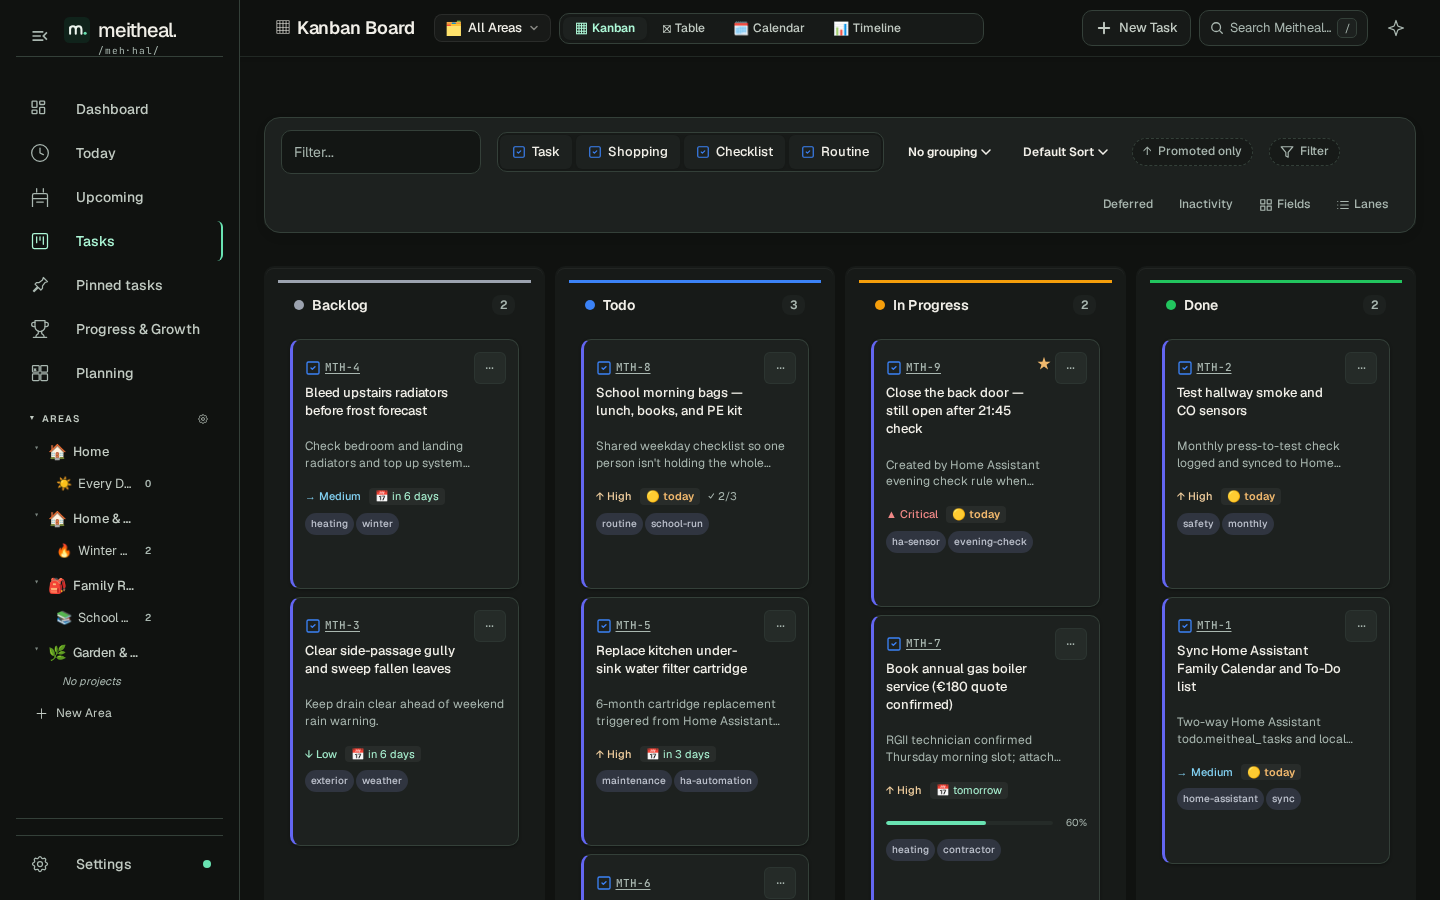
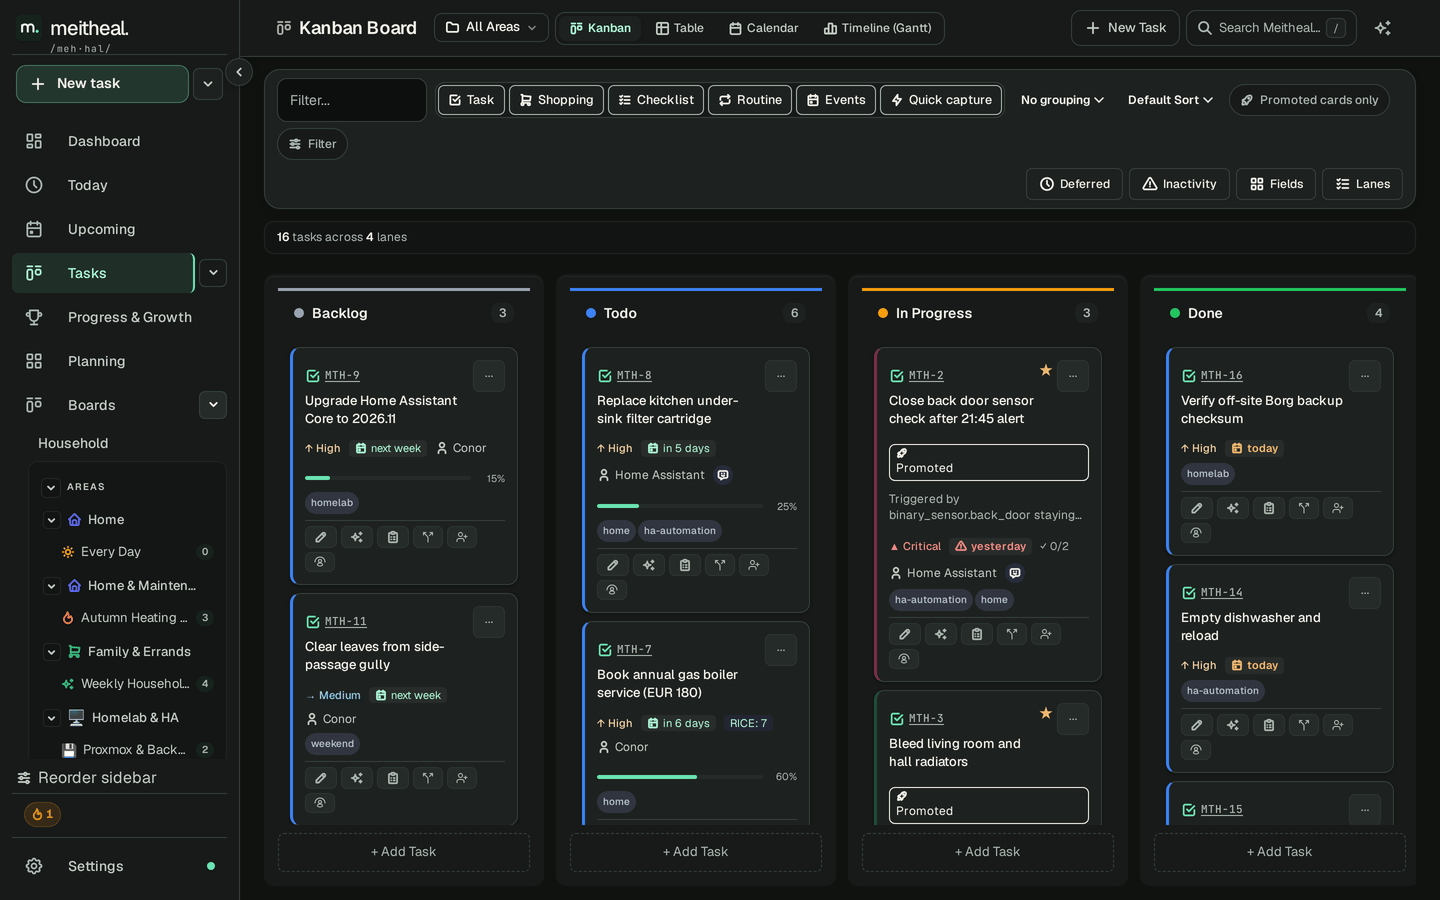
Refresh Meitheal documentation and README demos (#113)
* chore(repo): exclude working notes, non-ADR decision logs, and agent runs

* docs(decisions): add ADR template and clean legacy runner references

* docs: refresh README screenshots, capture runbook, and workflow guides

* chore(scripts): add deterministic marketing media capture script and unit tests

* chore: keep media capture tooling out of the repository

* docs: add feature GIFs and extra screenshots to the README

diff --git a/README.md b/README.md
@@ -34,20 +34,38 @@ Meitheal sits naturally between **Home Assistant automations** and **everyday ho
 | Multi-step seasonal prep | **Winter Boiler and Heating Prep** project | Tracks contractor quotes, radiator bleeding, and pressure checks in **Kanban** or **Table** |
 
 - **Start in Today**: Review due work, recurring routines, carried-forward items, and evening wrap-up in one focused view.
-- **Plan at the right altitude**: Switch between **Kanban**, **Table**, **Calendar**, and **Timeline**, or search everything instantly via [Search Hub](docs/kcs/search-hub-guide.md) (`/` or `Ctrl/Cmd + K`).
+- **Plan at the right altitude**: Organize work across dedicated **Boards**, switch between **Kanban**, **Table**, **Calendar**, and **Timeline**, open distraction-free **Focus Mode** with RICE scoring and **Auto-score with Assist**, or search everything via [Search Hub](docs/kcs/search-hub-guide.md) (`/` or `Ctrl/Cmd + K`).
+- **Look & Feel made for Home Assistant**: Choose **Emerald Isle**, **Knight Rider**, **Light**, or enable **Match Home Assistant theme** so surfaces and accents follow your Home Assistant dashboard.
 - **Stay inside Home Assistant**: Two-way calendar and `todo.meitheal_tasks` sync, Home Assistant sensors and services, Assist voice intents, webhooks, and scoped LLM/MCP agent tokens.
 - **Use on any screen — even offline**: Open through Home Assistant Ingress, launch via Companion deep links, or [install the PWA](docs/kcs/pwa-offline-guide.md) with offline task queuing.
 - **Own your data completely**: Local SQLite database covered by [Home Assistant backups](docs/kcs/home-assistant-backup-and-restore.md), plus one-click JSON, CSV, and raw SQLite exports.
 
 ## Inside Meitheal
 
-| Today — Daily Focus & Routines | Household Dashboard & Focus Queue |
+| Today — Priority Stack & Routines | Dashboard — Household Overview & Momentum |
 |---|---|
-| ![Meitheal Today view showing due tasks, evening review, and priority focus](docs/screenshots/today.png) | ![Meitheal Dashboard showing household stats, favorites, quick capture, and open queue](docs/screenshots/dashboard.png) |
-| **Kanban & Project Board** | **Home Assistant-Native Settings** |
-| ![Meitheal Kanban board showing Backlog, Todo, In Progress, and Done household tasks](docs/screenshots/kanban.png) | ![Meitheal Settings shell showing appearance swatches, regional options, and keyboard shortcuts](docs/screenshots/settings.png) |
+| ![Meitheal Today view showing Priority stack, quick capture, streak stats, and carried-forward triage](docs/screenshots/today.png) | ![Meitheal Dashboard showing task counts, momentum ring, XP streak, and focus queue](docs/screenshots/dashboard.png) |
+| **Kanban & Promoted Cards** | **Look & Feel & Theme Matching** |
+| ![Meitheal Kanban board showing Backlog, Todo, In Progress, and Done columns with color-tinted Promoted cards](docs/screenshots/kanban.png) | ![Meitheal Look and Feel Settings showing Emerald Isle, Match Home Assistant theme toggle, accent swatches, and appearance controls](docs/screenshots/settings.png) |
 
-Additional views include structured [Table planning](docs/screenshots/table.png) and month-grid [Calendar scheduling](docs/screenshots/tasks.png).
+| **Table Planning** | **Calendar & Day Agenda** |
+| ![Meitheal Table view with sortable columns for status, priority, due date, and assignee](docs/screenshots/table.png) | ![Meitheal Calendar month grid with the day agenda drawer open](docs/screenshots/calendar.png) |
+| **Timeline (Gantt)** | **Focus Mode** |
+| ![Meitheal Timeline view showing multi-day tasks as Gantt bars](docs/screenshots/timeline.png) | ![Meitheal task detail in Focus Mode with checklist and RICE scoring](docs/screenshots/focus-mode.png) |
+| **Eisenhower Matrix** | **Today on Mobile** |
+| ![Meitheal Eisenhower matrix sorting tasks into Do First, Schedule, Delegate, and Eliminate](docs/screenshots/eisenhower.png) | <img src="docs/screenshots/mobile-today.png" alt="Meitheal Today view on a phone-sized screen" width="260"> |
+
+## See It in Action
+
+| Quick add and check off in Today | One list, every view |
+|---|---|
+| ![Typing a task with natural-language date and priority in Today, checking off a task, then opening the Board](docs/screenshots/demo-today-quick-add.gif) | ![Dragging a Kanban card, then switching to Table, Calendar, and Timeline views](docs/screenshots/demo-board-views.gif) |
+| **Search to Focus Mode** | **Home Assistant creates a task** |
+| ![Opening Search Hub with Ctrl+K, finding a task, and expanding it into Focus Mode](docs/screenshots/demo-search-focus.gif) | ![A Home Assistant automation creates a task that appears on the Board and moves into Do First on the Eisenhower matrix](docs/screenshots/demo-home-assistant.gif) |
+| **Look & Feel themes** | |
+| ![Switching between Emerald Isle, Knight Rider, and Light themes and changing the accent color](docs/screenshots/demo-look-and-feel.gif) | |
+
+All screenshots and animations use invented household data.
 
 ## Ubiquitous Language
 
@@ -142,6 +160,10 @@ On Home Assistant Core 2026.11 or later, an active administrator can also enable
 - [Community conduct](CODE_OF_CONDUCT.md)
 - [Support](SUPPORT.md)
 - [Report a security problem privately](SECURITY.md)
+
+### How Meitheal Is Built
+
+Meitheal combines human Product Management direction with structured AI-assisted engineering workflows — led by review-loop skills in the [Elephant-Goldfish Model (EGM)](https://github.com/google/elephant-goldfish-model) (including [`egm-review-loop`](https://github.com/google/elephant-goldfish-model/tree/main/skills/egm-review-loop)), [GSD (Get Shit Done)](https://github.com/gsd-build/get-shit-done), and [gstack](https://github.com/garrytan/gstack) — paired with automated Playwright and Home Assistant pytest suites and continuous security scanning. Per-run agent logs stay outside Git, while durable architectural choices live in [ADRs](docs/decisions/index.md).
 
 ## Supporting Meitheal
 

diff --git a/docs/decisions/adr-template.md b/docs/decisions/adr-template.md
@@ -1,0 +1,63 @@
+---
+type: "Reference"
+title: "ADR Template and Guidelines"
+description: "Template and do's and don'ts for writing durable Architecture Decision Records."
+---
+
+# ADR Template and Guidelines
+
+Use an Architecture Decision Record (ADR) in `docs/decisions/` to capture durable architectural, domain-boundary, security, licensing, schema, or time-bounded policy decisions that future contributors need to understand.
+
+## Do's
+
+- Use numbered filenames (`NNNN-short-kebab-title.md`), include OKF YAML frontmatter (`type: "Decision"`, `title`, `description`), and add an index bullet to [the ADR index](index.md).
+- State technical context, the chosen decision, alternatives weighed, and concrete consequences in plain English.
+- Reference concrete repository paths, schemas, standards, or measured benchmarks.
+- Supersede an accepted ADR with a new numbered ADR rather than silently rewriting historical decisions.
+- Follow the [documentation bundle rules](../knowledge-bundle.md) and run `pnpm --filter @meitheal/tests test governance/docs-okf.spec.ts` before opening a pull request.
+
+## Don'ts
+
+- Do **not** commit non-ADR decision logs, individual AI agent runs, raw persona scorecards, review receipts, audit logs, or working scratch/progress notes anywhere inside `docs/` or tracked Git paths. Keep them git-excluded under `.planning/`.
+- Do **not** substitute internal runner phase numbers, iteration counts, or synthetic agent vote tallies for technical rationale.
+- Do **not** leave unindexed `.md` files under `docs/decisions/` (the repository governance suite treats every `.md` file in `docs/` as part of the indexed bundle).
+
+## Template
+
+Copy the skeleton below to `docs/decisions/NNNN-short-kebab-title.md` and register it in `docs/decisions/index.md`:
+
+````markdown
+---
+type: "Decision"
+title: "ADR NNNN: Short Decision Title"
+description: "One-line summary of the architectural or policy decision."
+---
+
+# ADR NNNN: Short Decision Title
+
+- **Date:** YYYY-MM-DD
+- **Status:** Proposed | Accepted | Superseded by ADR NNNN
+- **Deciders:** Maintainer names or roles
+
+## Context
+
+State the technical, product, security, or operational problem forcing a decision and any binding constraints.
+
+## Decision
+
+Describe the chosen approach, affected domain boundaries or schemas, and invariants that code and tests must uphold.
+
+## Alternatives Considered
+
+- **Option A:** Summary and why it was not chosen.
+- **Option B:** Summary and why it was not chosen.
+
+## Consequences
+
+- **Positive:** Concrete gains or simplified maintenance.
+- **Negative / Risks:** Trade-offs, migration needs, or follow-up work.
+
+## Related
+
+- Relevant code paths, KCS runbooks, or superseded ADRs
+````

diff --git a/CONTRIBUTING.md b/CONTRIBUTING.md
@@ -24,7 +24,7 @@ Keep discussion respectful and focused on the work. Use invented examples when a
 | Regression or compatibility checks | [Tests](tests) |
 | User help, runbooks, or design decisions | [Documentation index](docs/index.md) |
 
-Prefer Astro and native browser behavior where they fit. Keep domain rules with their owning context, use public package APIs across contexts, and reuse existing behavior before adding another abstraction. Update the relevant support guide with any behavior change, and record architectural decisions in [docs/decisions](docs/decisions).
+Prefer Astro and native browser behavior where they fit. Keep domain rules with their owning context, use public package APIs across contexts, and reuse existing behavior before adding another abstraction. Update the relevant support guide with any behavior change, and record architectural decisions in [docs/decisions](docs/decisions) using the [ADR template](docs/decisions/adr-template.md).
 
 ## Run and verify locally
 
@@ -86,7 +86,7 @@ Coverage is reported to [Codecov](https://codecov.io/gh/ryan-winkler/meitheal) f
 
 ## Code review standard
 
-Every pull request is reviewed before it is merged. The maintainer reviews pull requests from contributors. When the project has more than one maintainer, a maintainer's own pull request is reviewed by a different maintainer; until then the maintainer reviews their own change against this list after the automated review finishes. Automated review (CodeRabbit, CodeQL, Codacy) supports human review but does not replace it.
+Every pull request is reviewed before it is merged. The maintainer reviews pull requests from contributors. When the project has more than one maintainer, a maintainer's own pull request is reviewed by a different maintainer; until then the maintainer reviews their own change against this list after the automated review finishes. Structured planning and iterative review-loop workflows — using [Elephant-Goldfish Model (EGM)](https://github.com/google/elephant-goldfish-model) (`egm-review-loop`: [skills/egm-review-loop](https://github.com/google/elephant-goldfish-model/tree/main/skills/egm-review-loop)), [GSD (Get Shit Done)](https://github.com/gsd-build/get-shit-done), and [gstack](https://github.com/garrytan/gstack) — alongside CodeRabbit, CodeQL, and Codacy support human review but do not replace it. Keep individual agent-run transcripts and non-ADR working decision logs outside Git under `.planning/`.
 
 The reviewer checks that:
 

diff --git a/docs/decisions/adr-017-pillars-domain.md b/docs/decisions/adr-017-pillars-domain.md
@@ -8,7 +8,7 @@ description: "Defines pillars, principles, and their relationships to planning w
 
 **Date:** 2026-03-21 (updated with expanded scope)
 **Status:** Accepted
-**Deciders:** Ryan Winkler, 50-persona GSD panel (iterations 01 + 02)
+**Deciders:** Ryan Winkler
 
 ## Context
 
@@ -20,13 +20,11 @@ Users (especially those with ADHD) need a stable anchor that persists across shi
 
 ### 1. Naming: "Pillars"
 
-A 50-persona panel voted on naming:
-- **Pillars:** 42% primary preference, 70%+ acceptable
-- "Values": 28% — too personal/religious for some
-- "Principles": 18% — too corporate (but retained as sub-entity name)
-- "Foundations": 12% — too abstract
-
-"Pillar" evokes structural support — something a house stands on.
+Naming options considered:
+- **Pillars** (chosen): evokes structural support — something a house stands on.
+- **Values**: felt too personal or religious for some households.
+- **Principles**: too corporate for the top-level concept, but retained for concrete behavioral rules beneath a Pillar.
+- **Foundations**: too abstract.
 
 ### 2. Principles / Non-Negotiables (Sub-Layer)
 
@@ -40,7 +38,7 @@ Principles are behavioral boundaries within a Pillar. Each Pillar has 0:N Princi
 
 ### 3. Separate Bounded Context
 
-94% of the panel confirmed Pillars are a distinct domain concept.
+Pillars serve a distinct role from Goals, Areas, Lenses, and Routines and therefore live in their own bounded context:
 
 | Concept | Answers | Lifespan | Can complete? |
 |---------|---------|----------|---------------|

diff --git a/docs/decisions/adr-016-recurrence-vs-habits.md b/docs/decisions/adr-016-recurrence-vs-habits.md
@@ -8,7 +8,7 @@ description: "Explains the distinction between recurring tasks and habits."
 
 - **Status**: Accepted
 - **Date**: 2026-03-20
-- **Context**: Phase 1 discuss — 50-persona panel analysis on whether task recurrence (RRULE) and habit cadence should converge into one engine.
+- **Context**: Architectural review evaluating whether RFC 5545 task recurrence (RRULE) and daily/weekly habit cadence should converge into one engine or remain separate domain concepts.
 
 ## Decision
 
@@ -27,14 +27,6 @@ Task recurrence and habit cadence remain **separate domain concepts** with disti
 
 ## Rationale
 
-### 50-Persona Panel Results (0/50 for convergence)
-
-- **33/50** — keep fully separate
-- **8/50** — keep separate with shared scheduling primitive
-- **5/50** — shared primitive only (neutral on domain separation)
-- **4/50** — neutral (no opinion)
-- **0/50** — converge into one engine
-
 ### Industry Precedent
 
 | Product | Approach | Outcome |
@@ -45,7 +37,7 @@ Task recurrence and habit cadence remain **separate domain concepts** with disti
 | **Things 3** | Fixed/after-completion, no habits | Beloved UX simplicity |
 | **Todoist** | Habits = recurring tasks | Consistently criticized, added Habits extension |
 
-### ADHD/Productivity Panel (unanimous: keep separate)
+### Behavioral and Motivational Separation
 
 Habits are ADHD dopamine mechanisms — streak counters and daily check-in cards only work because habits feel fundamentally different from tasks. Merging them kills the motivational distinction.
 

diff --git a/docs/knowledge-bundle.md b/docs/knowledge-bundle.md
@@ -6,7 +6,7 @@ description: Scope and maintenance of the Meitheal documentation bundle.
 
 # Documentation bundle
 
-Every Markdown file under `docs/` is part of the bundle. Its path relative to `docs/`, without the `.md` suffix, is its concept ID. Guides, decision records, and research retain their existing paths. Images and editor settings are supporting files. Repository policies and App manuals outside `docs/` belong to separate collections.
+Every Markdown file under `docs/` is part of the bundle. Its path relative to `docs/`, without the `.md` suffix, is its concept ID. Guides, durable Architecture Decision Records (ADRs under `docs/decisions/`), and research retain their existing paths. Images and editor settings are supporting files. Repository policies and App manuals outside `docs/` belong to separate collections. Keep non-ADR decision records, individual agent run logs, persona audits, review receipts, working notes, progress logs, launch drafts, and local media scratch artifacts outside Git under `.planning/` rather than inside `docs/`.
 
 Give each concept YAML frontmatter with a nonempty `type`, and add an entry to the nearest `index.md` so readers can find it. Use Git history to track edits. Cite the original source when documenting a decision or external requirement. [Open Knowledge Format 0.2 specification](https://github.com/GoogleCloudPlatform/open-knowledge-format/blob/ad30107c31c06aec8a7d5636e0d1058118604e6f/SPEC.md).
 

diff --git a/docs/decisions/0008-phase-27-security-accessibility.md b/docs/decisions/0008-phase-27-security-accessibility.md
@@ -8,7 +8,7 @@ description: "Records security and accessibility decisions for the affected rele
 
 - **Status**: Accepted
 - **Date**: 2026-02-28
-- **Context**: Phase 27 GSD mega-sweep across 10 domains (40 iterations)
+- **Context**: Security, accessibility (VPAT), and query-performance hardening pass addressing cross-origin API protection, CSP tightening, settings input validation, screen-reader and reduced-motion accessibility, and task-query indexing.
 
 ## Decision
 
@@ -17,7 +17,7 @@ description: "Records security and accessibility decisions for the affected rele
 1. **CSRF Protection**: Origin-based checking on all mutating API routes (POST/PUT/DELETE/PATCH). Checks Origin/Referer against Host header. Skipped in dev mode. Allows no-origin requests (curl, HA internal).
 2. **CSP Tightening**: Added `base-uri 'self'`, `form-action 'self'`, `upgrade-insecure-requests`, `blob:` for img-src. Kept `unsafe-inline` for Astro hydration compatibility.
 3. **Settings API**: Key format validation (alphanumeric/hyphen/underscore, 100 char max), value size limit (10KB).
-4. **Import Safety**: 100KB body size guard, expanded allowlist for Phase 26 keys, `updated_at` field on upsert.
+4. **Import Safety**: 100KB body size guard, expanded allowlist for newly added settings keys, `updated_at` field on upsert.
 
 ### Accessibility
 

diff --git a/AGENTS.md b/AGENTS.md
@@ -232,7 +232,8 @@ Changes **must** be verified in the correct environment tier before completion.
 ## KCS Rules
 
 - New behavior requires updated docs and a runbook touchpoint
-- ADRs capture architectural and legal/security decisions
+- Commit only durable Architecture Decision Records (ADRs) to `docs/decisions/` for lasting architectural, product, security, licensing, or bounded policy decisions; state technical rationale directly without citing individual agent runs
+- Keep non-ADR decision records, individual agent run logs, persona audits, review receipts, and working progress notes outside Git under `.planning/` — never inside `docs/`
 - Error messages should support self-service debugging
 
 ## Licensing Boundaries

diff --git a/docs/decisions/index.md b/docs/decisions/index.md
@@ -1,5 +1,6 @@
-# Architecture and product decisions
+# Architecture decision records (ADRs)
 
+- [ADR template and guidelines](adr-template.md) - Template and do's and don'ts for writing durable Architecture Decision Records.
 - [Shared Board workspace and recoverable removal](0025-board-workspace-lifecycle.md) - Records the shared Kanban, Area terminology and Board deletion and restoration behavior.
 
 - [ADR 0001: Legal and Naming Strategy](0001-legal-and-naming-strategy.md) - Records the product naming and legal strategy.

diff --git a/docs/index.md b/docs/index.md
@@ -39,4 +39,4 @@ okf_version: "0.2"
 
 - [Documentation bundle](knowledge-bundle.md) - Scope and maintenance of the Meitheal documentation bundle.
 - [Runbooks and guides](kcs/index.md) - Browse user help, integration guides, and operational procedures.
-- [Decision records](decisions/index.md) - Browse architecture and product decisions.
+- [Architecture decision records (ADRs)](decisions/index.md) - Browse durable architectural, product, security, and policy decisions.

diff --git a/docs/decisions/0011-task-activity-log.md b/docs/decisions/0011-task-activity-log.md
@@ -8,7 +8,7 @@ description: "Defines the task activity history and its storage."
 
 - **Status**: Accepted
 - **Date**: 2026-02-28
-- **Context**: Phase 30 competitive parity, Persona #34 (domain events)
+- **Context**: Household members and automation operators need field-level change history on tasks to trace who or which integration modified a record.
 
 ## Decision
 
